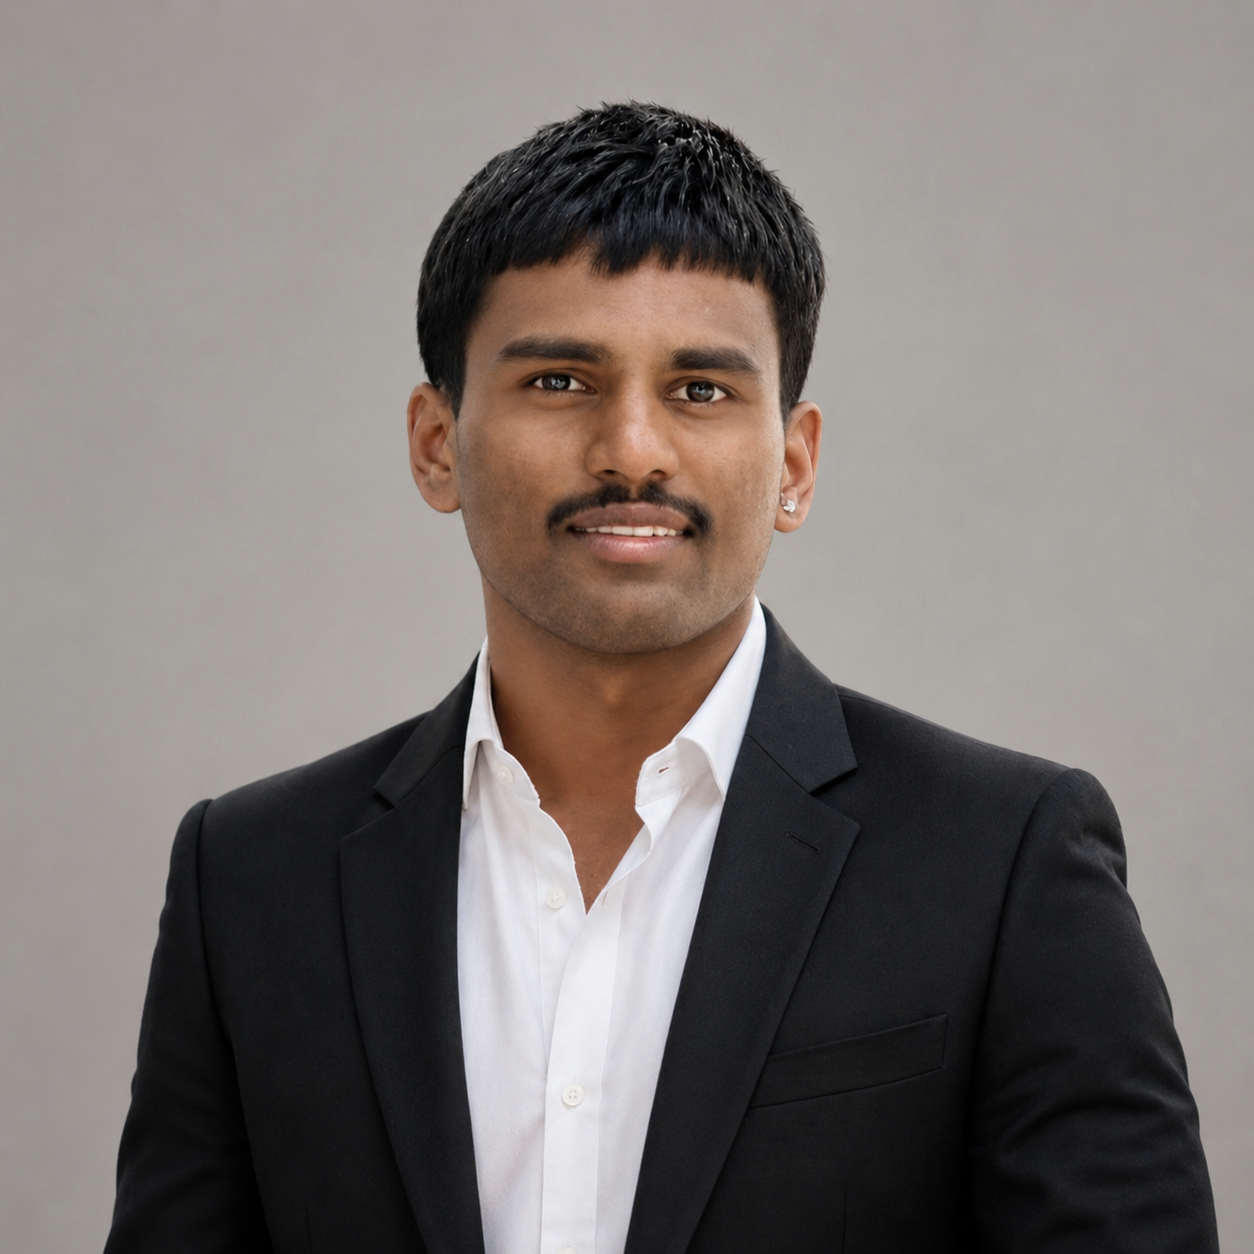
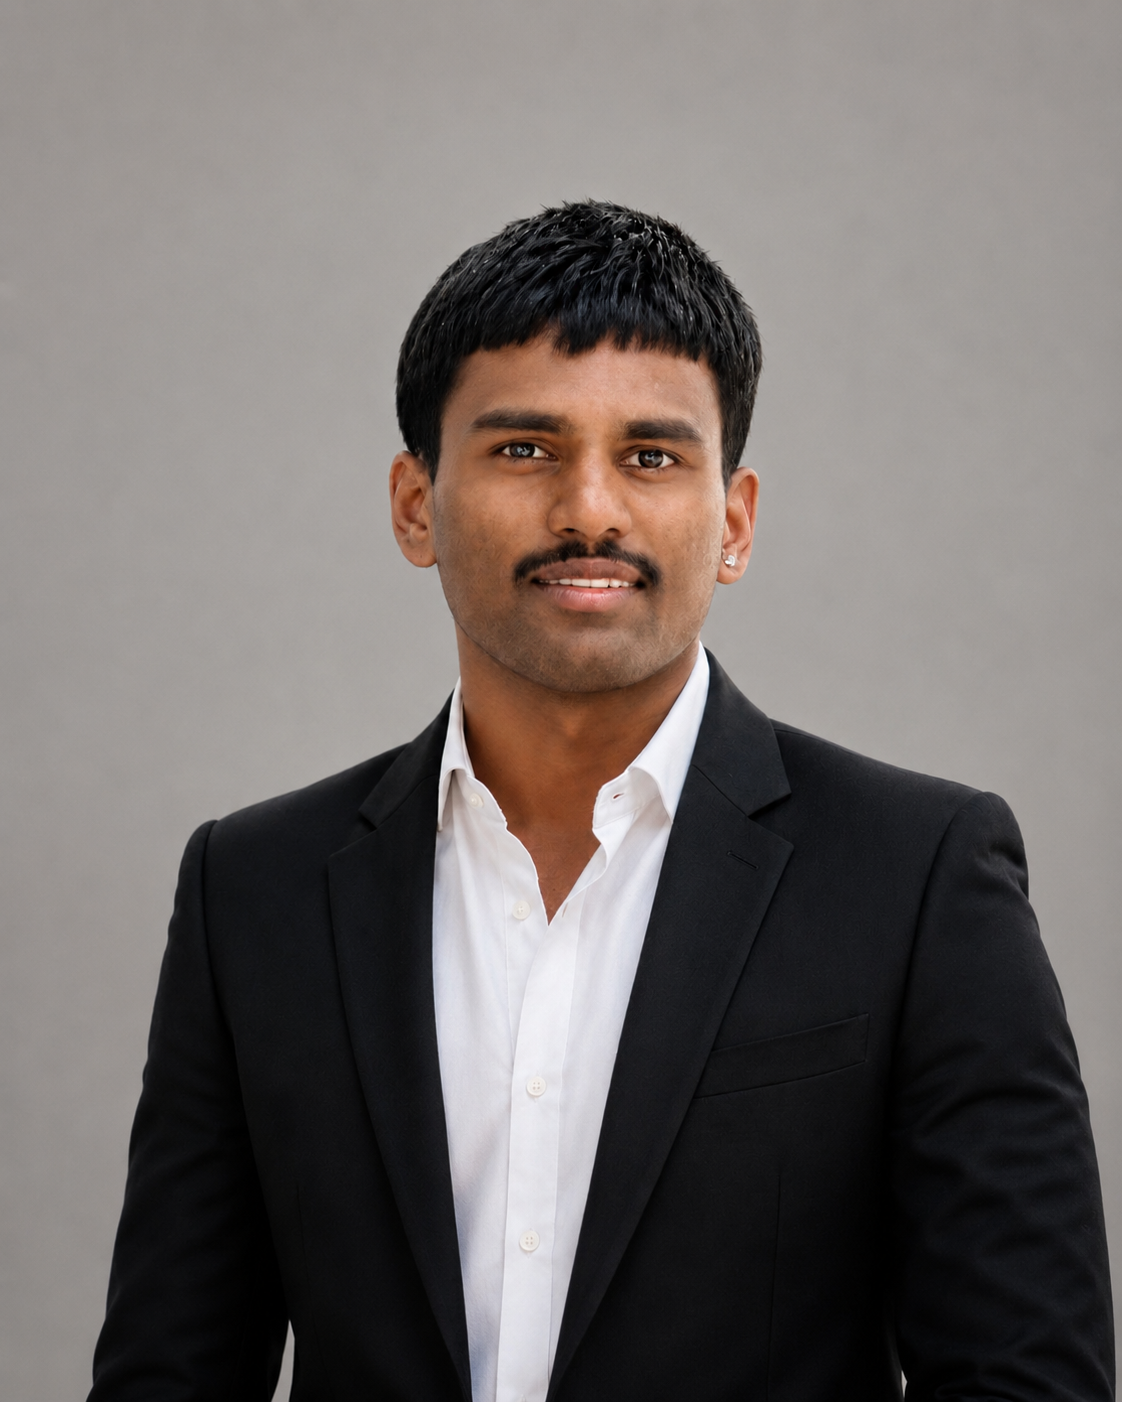
Update Rohan Malgunde photo

diff --git a/about.html b/about.html
@@ -85,7 +85,7 @@
           </div>
         </div>
         <div class="leader-card">
-          <img src="assets/images/rohan.png" alt="Rohan Malgunde" class="leader-img">
+          <img src="assets/images/rohan.png?v=2" alt="Rohan Malgunde" class="leader-img">
           <div class="leader-info-overlay">
             <h3 class="leader-name">Rohan Malgunde</h3>
             <p class="leader-title">Founder & Director</p>

diff --git a/index.html b/index.html
@@ -239,7 +239,7 @@
           </div>
         </div>
         <div class="leader-card">
-          <img src="assets/images/rohan.png" alt="Rohan Malgunde" class="leader-img">
+          <img src="assets/images/rohan.png?v=2" alt="Rohan Malgunde" class="leader-img">
           <div class="leader-info-overlay">
             <h3 class="leader-name">Rohan Malgunde</h3>
             <p class="leader-title">Founder & Director</p>